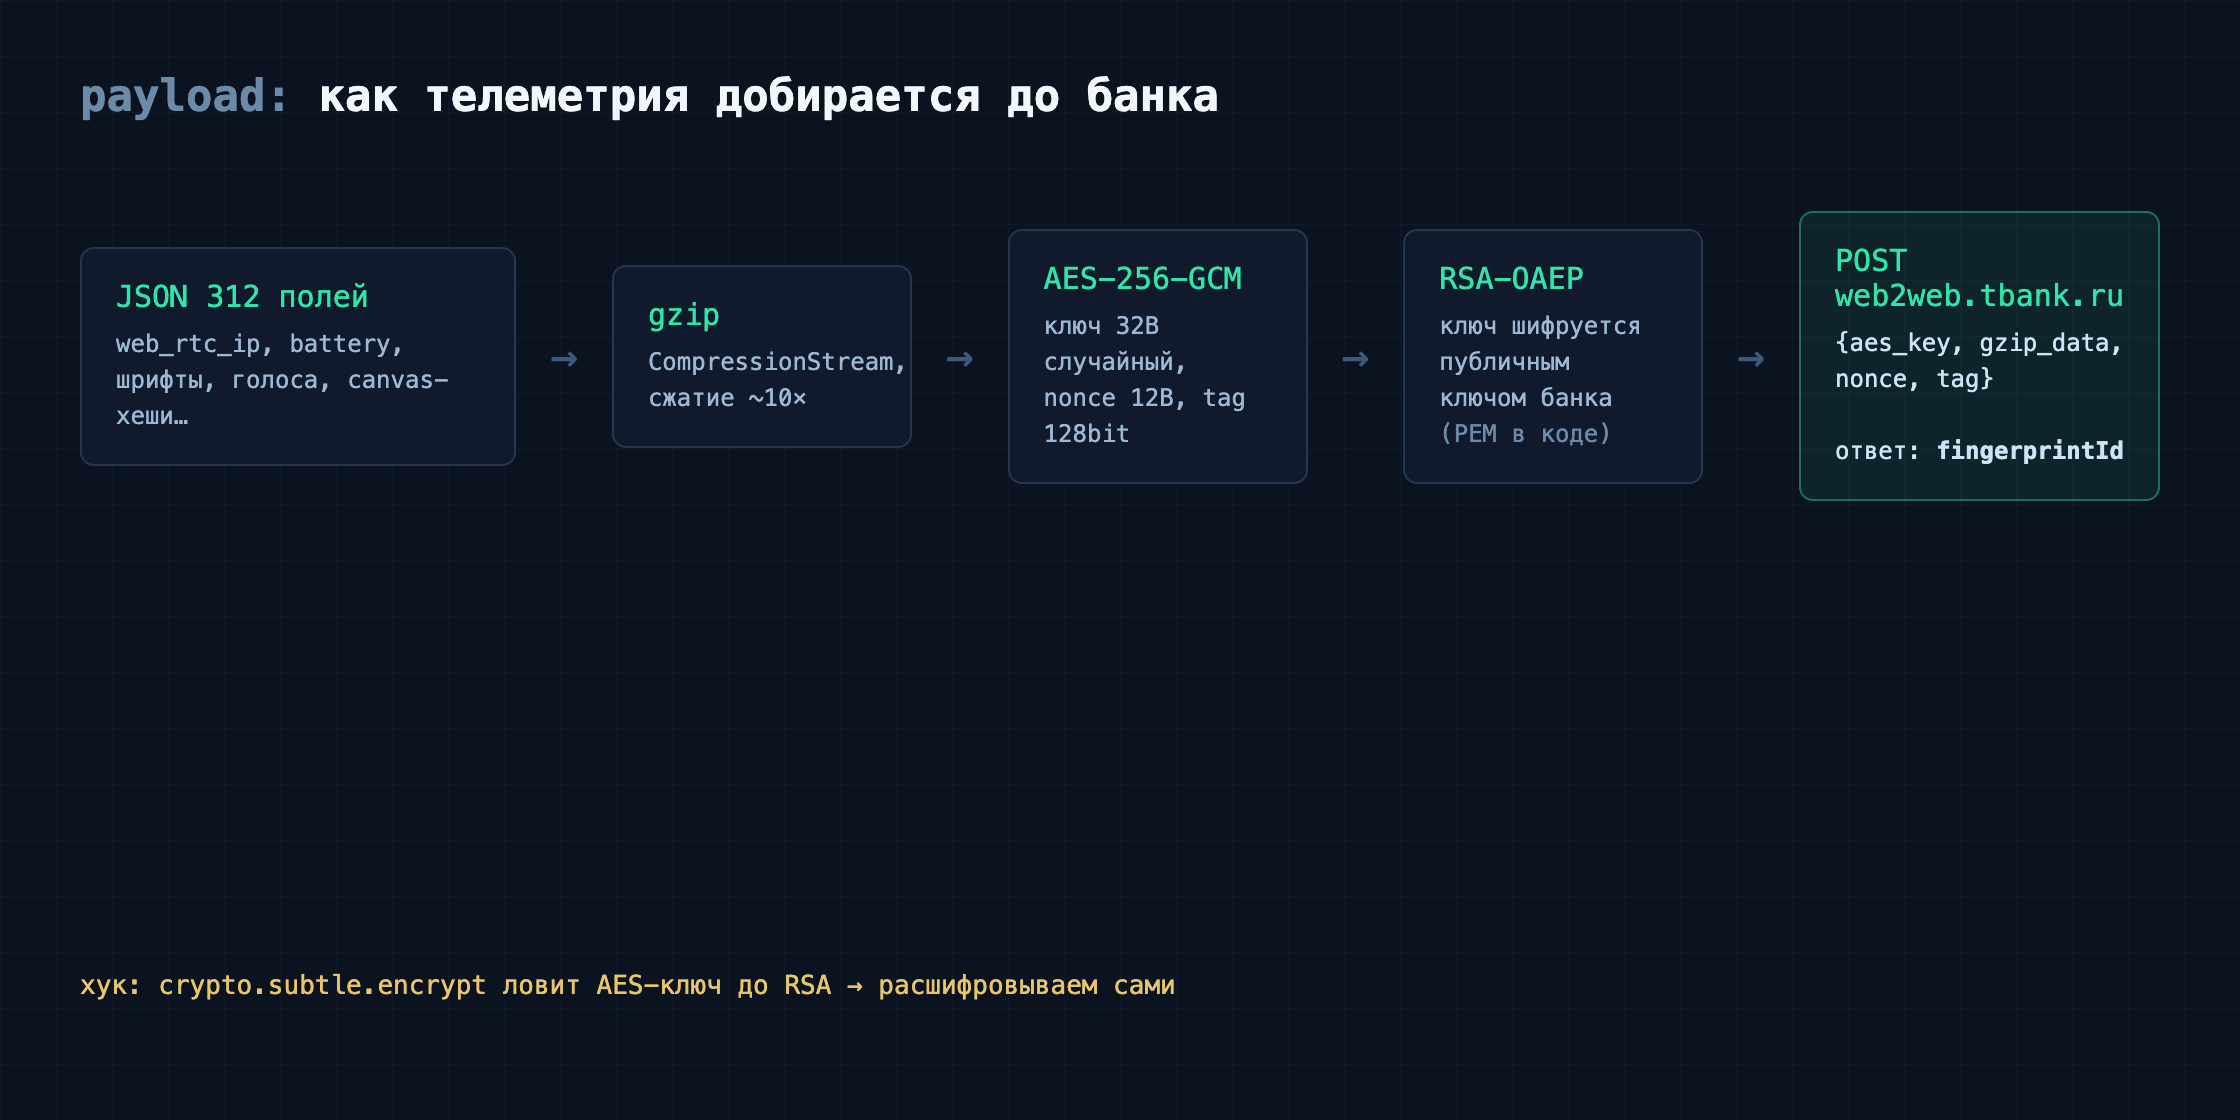
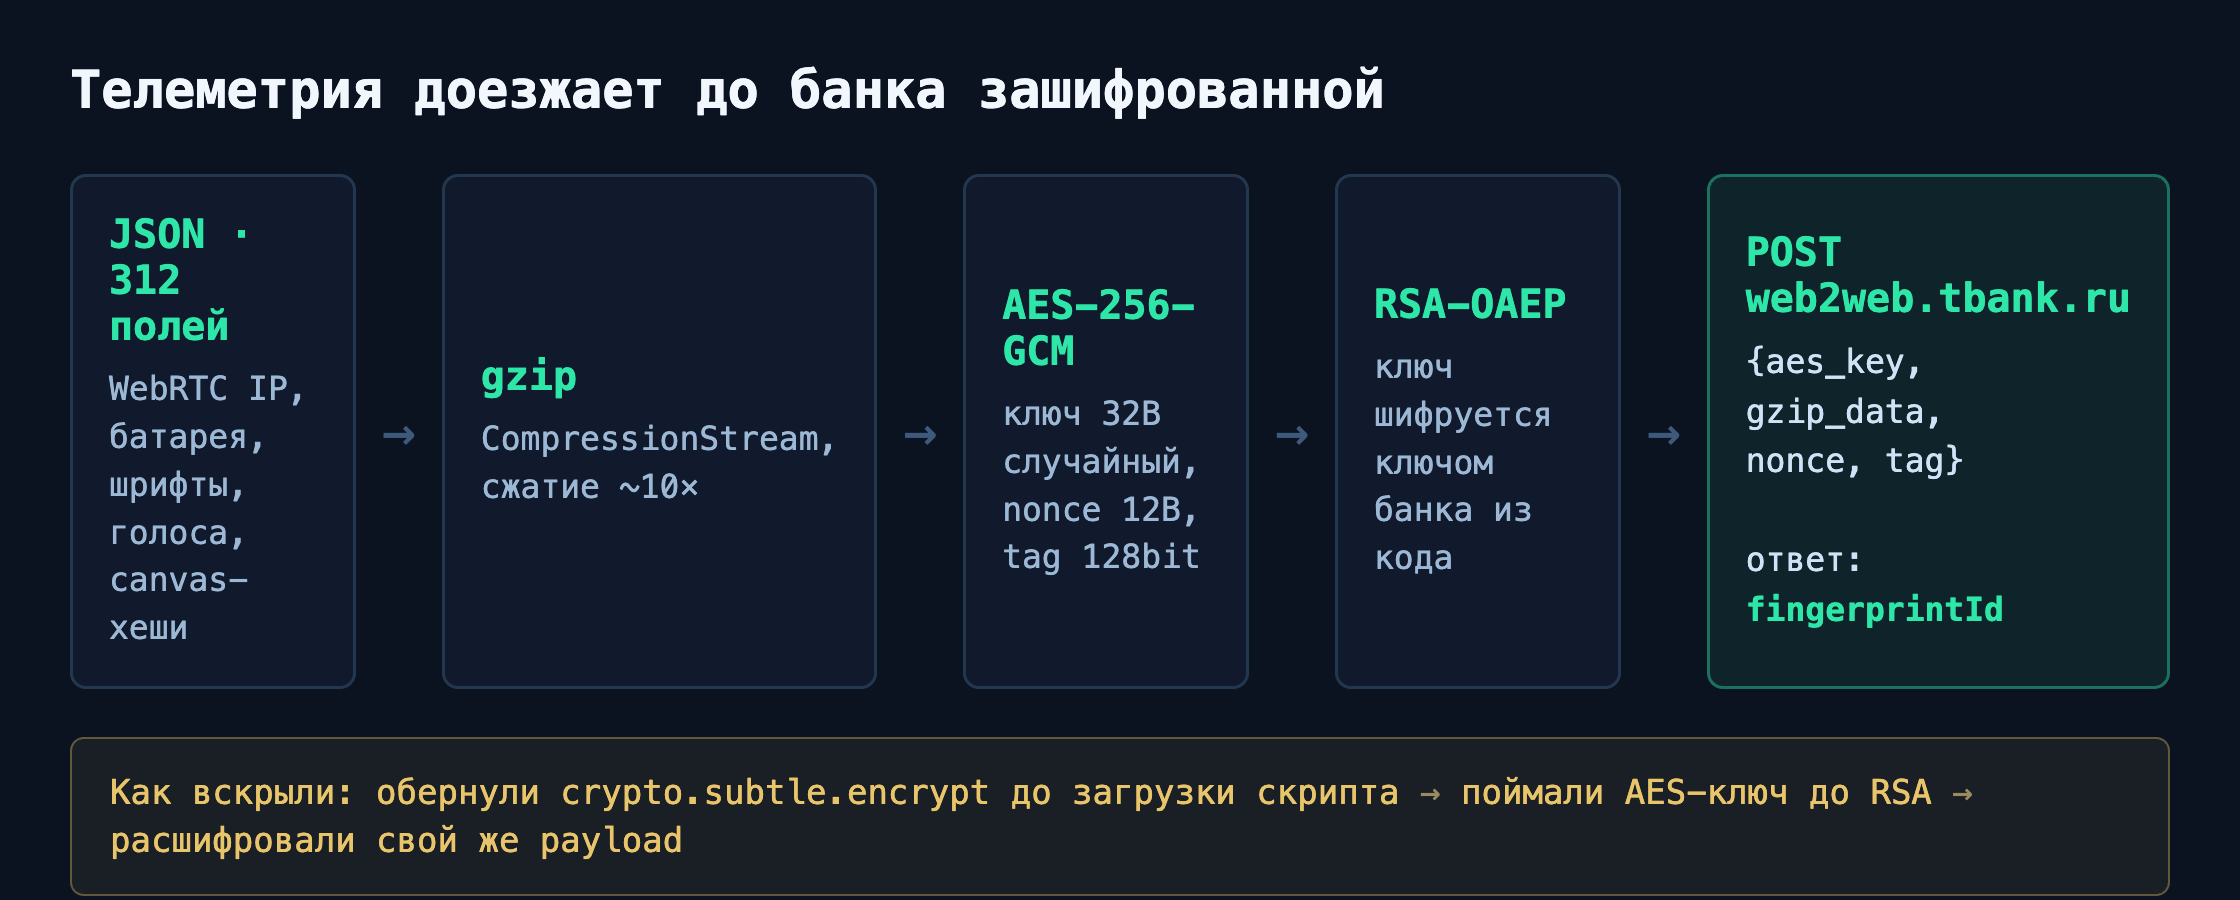
figures: bigger text (34-40px), no empty zones + figure rules doc

diff --git a/docs/part2/images/fp2_fig2.html b/docs/part2/images/fp2_fig2.html
@@ -5,59 +5,59 @@
 <style>
   * { margin: 0; padding: 0; box-sizing: border-box; }
   body {
-    width: 2240px; height: 1240px;
+    width: 2240px; height: 1560px;
     background: #0b1220;
     font-family: 'SF Mono', Menlo, Consolas, monospace;
     color: #dbe7f4;
-    padding: 70px 80px;
-    position: relative;
+    padding: 60px 70px;
+    display: flex;
+    flex-direction: column;
   }
-  h2 { font-size: 44px; color: #f2f7fd; margin-bottom: 36px; font-weight: 700; }
+  h2 { font-size: 52px; color: #f2f7fd; font-weight: 700; }
   .dim { color: #6b8aa8; }
-  table { border-collapse: collapse; width: 100%; }
+  table { border-collapse: collapse; width: 100%; margin-top: 44px; }
   th, td {
-    border: 1px solid #23374f;
-    padding: 20px 26px;
-    font-size: 26px;
+    border: 2px solid #23374f;
+    padding: 24px 30px;
+    font-size: 34px;
     text-align: left;
+    line-height: 1.35;
   }
-  th { background: #101a2c; color: #2ee6a8; font-weight: 700; }
+  th { background: #101a2c; color: #2ee6a8; font-weight: 700; font-size: 36px; }
   td { background: rgba(16,26,44,0.85); color: #cfe3f7; }
   td.sig { color: #e8c46a; }
-  td small { color: #6b8aa8; font-size: 21px; display: block; margin-top: 6px; }
-  .verdict {
-    margin-top: 44px;
-    display: flex; gap: 40px;
-  }
+  td small { color: #6b8aa8; font-size: 28px; display: block; margin-top: 8px; }
+  .verdict { margin-top: 50px; display: flex; gap: 36px; flex: 1; }
   .card {
     flex: 1;
     background: #101a2c;
-    border: 2px solid #23374f;
-    border-radius: 14px;
-    padding: 28px 32px;
+    border: 3px solid #23374f;
+    border-radius: 16px;
+    padding: 34px 38px;
   }
   .card.android { border-color: rgba(46,230,168,0.5); }
   .card.ios { border-color: rgba(232,110,110,0.5); }
-  .card .t { font-size: 28px; margin-bottom: 10px; }
+  .card .t { font-size: 36px; margin-bottom: 14px; font-weight: 700; }
   .card.android .t { color: #2ee6a8; }
   .card.ios .t { color: #e88e6e; }
-  .card .d { font-size: 24px; color: #9db8d4; line-height: 1.55; }
+  .card .d { font-size: 32px; color: #9db8d4; line-height: 1.5; }
+  .card b { color: #cfe3f7; }
 </style>
 </head>
 <body>
-  <h2>Энтропия: Android vs iOS <span class="dim">(замеры + модель)</span></h2>
+  <h2>Почему на Android паспорт различает устройства, а на iOS нет</h2>
 
   <table>
-    <tr><th style="width:420px">Сигнал</th><th style="width:400px">Android</th><th>iOS / WKWebView</th></tr>
+    <tr><th style="width:560px">Сигнал</th><th style="width:720px">Android</th><th>iOS / WKWebView</th></tr>
     <tr>
-      <td class="sig">canvas-хеш (3 рецепта)<small>emoji-текст, градиент, picasso</small></td>
+      <td class="sig">canvas-хеш ×3<small>emoji-текст, градиент, picasso</small></td>
       <td>уникален почти всегда<br><span class="dim">SKIA + GPU попиксельно</span></td>
-      <td>3–4 класса<br><span class="dim">определён версией iOS</span></td>
+      <td>3–4 класса, хеш задаёт версия iOS</td>
     </tr>
     <tr>
       <td class="sig">WebGL unmasked renderer</td>
-      <td>«Adreno 740», «Mali-G715»…<br><span class="dim">модель GPU видна</span></td>
-      <td>«Apple GPU» у всех<br><span class="dim">модель чипа скрыта</span></td>
+      <td>«Adreno 740», «Mali-G715»… модель GPU видна</td>
+      <td>«Apple GPU» у всех, модель чипа скрыта</td>
     </tr>
     <tr>
       <td class="sig">Battery / NetworkInfo / deviceMemory</td>
@@ -66,24 +66,19 @@
     </tr>
     <tr>
       <td class="sig">шрифты, TTS-голоса, Intl</td>
-      <td>зависят от вендора: куча вариаций</td>
+      <td>зависят от вендора, куча вариаций</td>
       <td>набор фиксирован версией ОС</td>
-    </tr>
-    <tr>
-      <td class="sig">audio-отпечаток</td>
-      <td>плавает между устройствами</td>
-      <td>константа поколения чипа</td>
     </tr>
   </table>
 
   <div class="verdict">
     <div class="card android">
-      <div class="t">Android: эффективная энтропия ~40–50 бит</div>
-      <div class="d">GPU-разнобой вендоров, шрифты, баги растеризации. Паспорт различает устройства.</div>
+      <div class="t">Android: ~40–50 эффективных бит</div>
+      <div class="d">GPU-разнобой вендоров, шрифты, баги растеризации.<br><b>Паспорт различает устройства.</b></div>
     </div>
     <div class="card ios">
-      <div class="t">iOS: эффективная энтропия ~31.6 бит → ~14 000 классов</div>
-      <div class="d">версия iOS (4.5) + чип (4.5) + экран (3.6) + язык/TZ (9) + сеть (10). Тысячи айфонов с одинаковым паспортом: различает поведение и серверная история.</div>
+      <div class="t">iOS: ~31.6 бит → ~14 000 классов</div>
+      <div class="d">версия iOS (4.5) + чип (4.5) + экран (3.6) + язык (9) + сеть (10).<br><b>Тысячи айфонов с одинаковым паспортом:</b> различает поведение и серверная история.</div>
     </div>
   </div>
 </body>

diff --git a/docs/part2/images/fp2_fig1.html b/docs/part2/images/fp2_fig1.html
@@ -5,53 +5,62 @@
 <style>
   * { margin: 0; padding: 0; box-sizing: border-box; }
   body {
-    width: 2240px; height: 1120px;
+    width: 2240px; height: 900px;
     background: #0b1220;
     font-family: 'SF Mono', Menlo, Consolas, monospace;
     color: #dbe7f4;
-    padding: 70px 80px;
+    padding: 60px 70px;
     position: relative;
+    display: flex;
+    flex-direction: column;
   }
-  h2 { font-size: 44px; color: #f2f7fd; margin-bottom: 10px; font-weight: 700; }
+  h2 { font-size: 52px; color: #f2f7fd; font-weight: 700; }
   .dim { color: #6b8aa8; }
-  .grid {
-    position: absolute; inset: 0;
-    background-image:
-      linear-gradient(rgba(120,160,210,0.05) 1px, transparent 1px),
-      linear-gradient(90deg, rgba(120,160,210,0.05) 1px, transparent 1px);
-    background-size: 56px 56px;
-    z-index: 0;
-  }
-  .flow { display: flex; align-items: center; gap: 34px; margin-top: 90px; position: relative; z-index: 1; }
+  .flow { display: flex; align-items: stretch; gap: 26px; margin-top: 54px; flex: 1; }
   .box {
     background: #101a2c;
-    border: 2px solid #23374f;
-    border-radius: 14px;
-    padding: 30px 34px;
-    min-width: 300px;
+    border: 3px solid #23374f;
+    border-radius: 16px;
+    padding: 34px 36px;
+    flex: 1;
+    display: flex;
+    flex-direction: column;
+    justify-content: center;
   }
-  .box .t { font-size: 30px; color: #2ee6a8; margin-bottom: 12px; }
-  .box .d { font-size: 24px; color: #9db8d4; line-height: 1.5; }
-  .arrow { font-size: 46px; color: #3d5a7a; }
+  .box .t { font-size: 40px; color: #2ee6a8; margin-bottom: 16px; font-weight: 700; }
+  .box .d { font-size: 33px; color: #9db8d4; line-height: 1.45; }
+  .arrow { font-size: 56px; color: #3d5a7a; align-self: center; flex: 0; }
   .result {
     background: rgba(46,230,168,0.08);
-    border: 2px solid rgba(46,230,168,0.4);
-    border-radius: 14px;
-    padding: 30px 34px;
+    border: 3px solid rgba(46,230,168,0.4);
+    border-radius: 16px;
+    padding: 34px 36px;
+    flex: 1.35;
+    display: flex; flex-direction: column; justify-content: center;
   }
-  .result .t { font-size: 30px; color: #2ee6a8; }
-  .result .d { font-size: 24px; color: #cfe3f7; margin-top: 12px; line-height: 1.5; }
-  .hook { position: absolute; bottom: 120px; left: 80px; font-size: 26px; color: #e8c46a; }
+  .result .t { font-size: 40px; color: #2ee6a8; margin-bottom: 16px; font-weight: 700; }
+  .result .d { font-size: 33px; color: #cfe3f7; line-height: 1.5; }
+  .result b { color: #2ee6a8; }
+  .hook {
+    margin-top: 48px;
+    background: rgba(232,196,106,0.07);
+    border: 2px solid rgba(232,196,106,0.35);
+    border-radius: 14px;
+    padding: 30px 38px;
+    font-size: 34px;
+    color: #e8c46a;
+    line-height: 1.4;
+  }
+  .hook .dim { color: #9a8a60; }
 </style>
 </head>
 <body>
-  <div class="grid"></div>
-  <h2><span class="dim">payload:</span> как телеметрия добирается до банка</h2>
+  <h2>Телеметрия доезжает до банка зашифрованной</h2>
 
   <div class="flow">
     <div class="box">
-      <div class="t">JSON 312 полей</div>
-      <div class="d">web_rtc_ip, battery, шрифты, голоса, canvas-хеши…</div>
+      <div class="t">JSON · 312 полей</div>
+      <div class="d">WebRTC IP, батарея, шрифты,<br>голоса, canvas-хеши</div>
     </div>
     <div class="arrow">→</div>
     <div class="box">
@@ -66,15 +75,15 @@
     <div class="arrow">→</div>
     <div class="box">
       <div class="t">RSA-OAEP</div>
-      <div class="d">ключ шифруется<br>публичным ключом банка<br><span class="dim">(PEM в коде)</span></div>
+      <div class="d">ключ шифруется<br>ключом банка из кода</div>
     </div>
     <div class="arrow">→</div>
     <div class="result">
       <div class="t">POST web2web.tbank.ru</div>
-      <div class="d">{aes_key, gzip_data, nonce, tag}<br><br>ответ: <b>fingerprintId</b></div>
+      <div class="d">{aes_key, gzip_data,<br>nonce, tag}<br><br>ответ: <b>fingerprintId</b></div>
     </div>
   </div>
 
-  <div class="hook">хук: crypto.subtle.encrypt ловит AES-ключ до RSA → расшифровываем сами</div>
+  <div class="hook">Как вскрыли: обернули crypto.subtle.encrypt до загрузки скрипта <span class="dim">→</span> поймали AES-ключ до RSA <span class="dim">→</span> расшифровали свой же payload</div>
 </body>
 </html>

diff --git a/docs/00_figure_rules.md b/docs/00_figure_rules.md
@@ -1,0 +1,20 @@
+# Правило: схемы для статей
+
+## Формат
+1. **Размер текста на схемах: минимум 32px при ширине 2240px** (примерно 1.4% ширины).
+   Заголовки 44px+, основной текст 34–38px, подписи 30px.
+   Причина: Хабр жмёт схемы до ~700–900px в ленте, при этом мелкий текст <32px
+   нечитаем. Если на схеме много текста, лучше укоротить текст, чем уменьшить шрифт.
+
+## Компоновка
+2. **Нет пустых зон.** Заполняем холст: либо сжимаем высоту под контент,
+   либо добавляем содержательный блок (таблицу, вывод, вторую ветку схемы).
+   Пустые поля сверху/снизу это потерянное место читателя.
+3. **Схема читается без статьи.** Заголовок схемы должен нести утверждение,
+   а не «Схема 1». Проверка: показываешь картинку отдельно, собеседник понял мысль.
+4. **Один экран = одна мысль.** Если мыслей две, это два рисунка.
+
+## Проверка перед публикацией
+5. Рендерим, потом смотрим на схему в масштабе ~850px по ширине (как в ленте Хабра).
+   Текст читается? Если нет, увеличиваем шрифт и перерендериваем.
+6. Сверяем факты на схеме с текстом статьи и журналом находок.

diff --git a/docs/figure-rules.md b/docs/figure-rules.md
@@ -1,0 +1,20 @@
+# Правило: схемы для статей
+
+## Формат
+1. **Размер текста на схемах: минимум 32px при ширине 2240px** (примерно 1.4% ширины).
+   Заголовки 44px+, основной текст 34–38px, подписи 30px.
+   Причина: Хабр жмёт схемы до ~700–900px в ленте, при этом мелкий текст <32px
+   нечитаем. Если на схеме много текста, лучше укоротить текст, чем уменьшить шрифт.
+
+## Компоновка
+2. **Нет пустых зон.** Заполняем холст: либо сжимаем высоту под контент,
+   либо добавляем содержательный блок (таблицу, вывод, вторую ветку схемы).
+   Пустые поля сверху/снизу это потерянное место читателя.
+3. **Схема читается без статьи.** Заголовок схемы должен нести утверждение,
+   а не «Схема 1». Проверка: показываешь картинку отдельно, собеседник понял мысль.
+4. **Один экран = одна мысль.** Если мыслей две, это два рисунка.
+
+## Проверка перед публикацией
+5. Рендерим, потом смотрим на схему в масштабе ~850px по ширине (как в ленте Хабра).
+   Текст читается? Если нет, увеличиваем шрифт и перерендериваем.
+6. Сверяем факты на схеме с текстом статьи и журналом находок.
